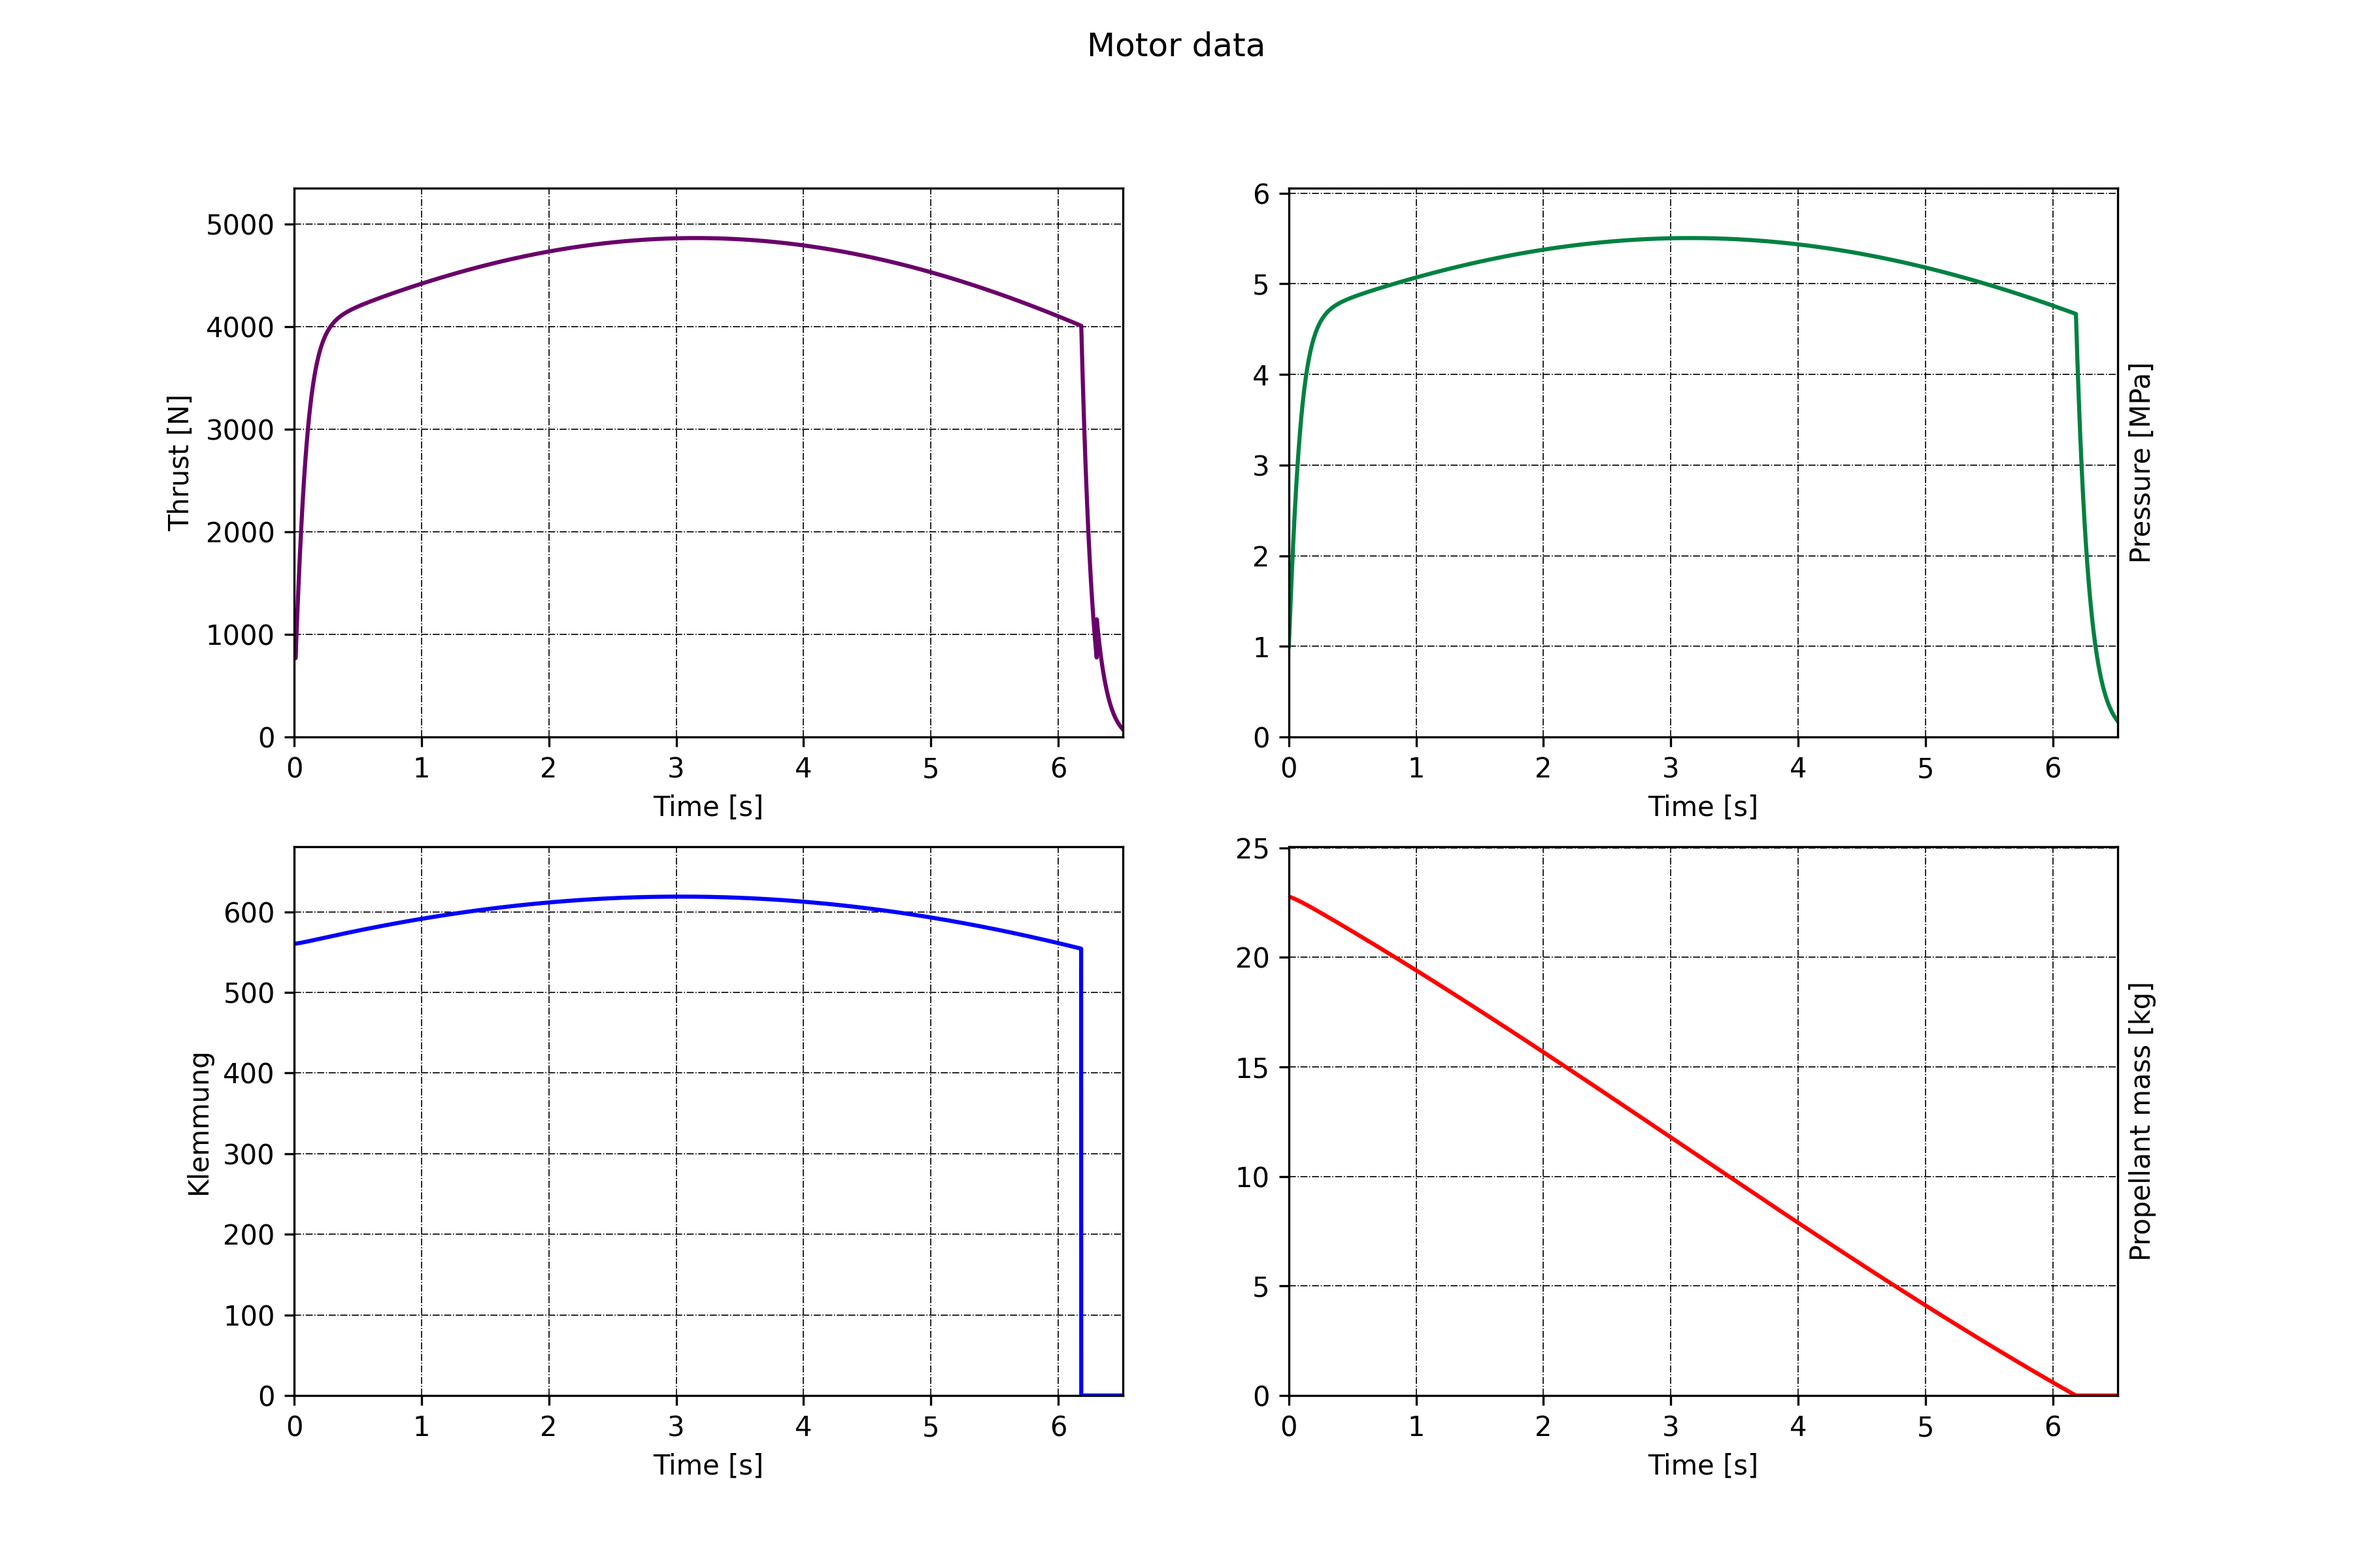
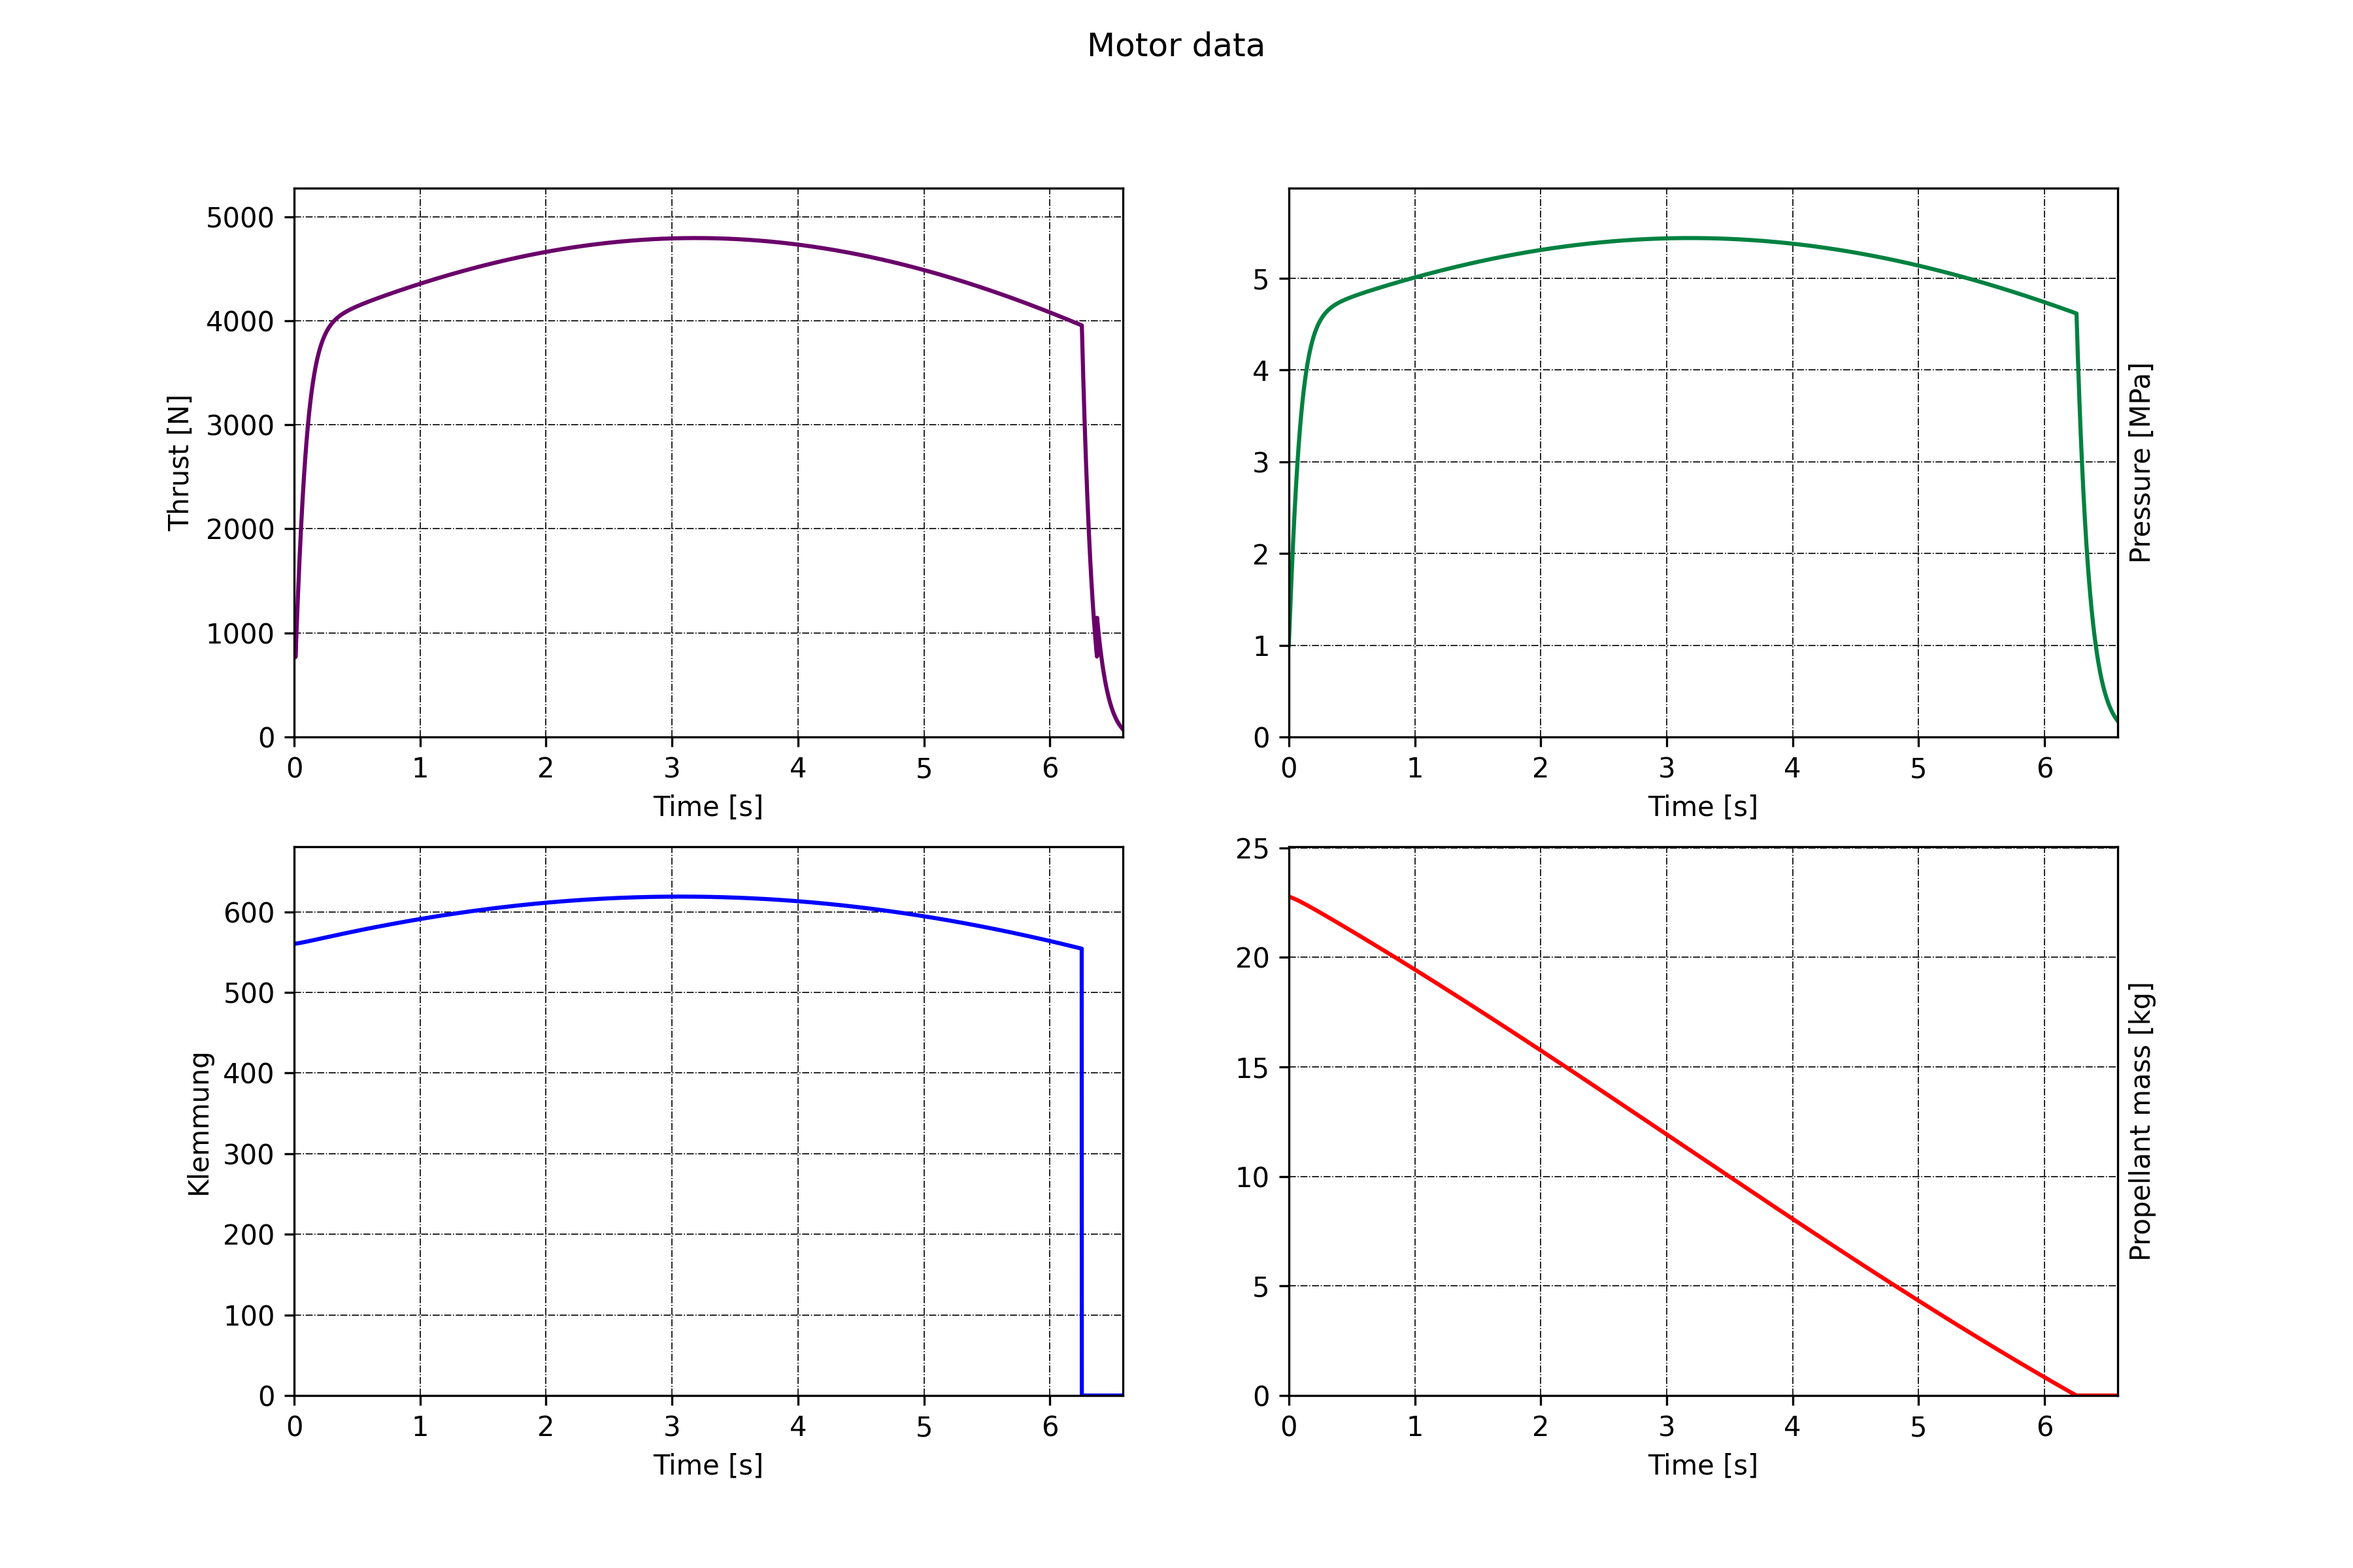
Version Alpha

diff --git a/functions/propellant.py b/functions/propellant.py
@@ -1,3 +1,6 @@
+# Burn rate data was gathered from Nakka and Magnus Gudnason paper 's072205'.
+# Propellant data was gathered from ProPEP3.
+#
 # ce: Combustion, two phase, heat loss, friction inefficiency factor
 # pp: Propellant density [kg/m^3]
 # kCh: Isentropic exponent (chamber)
@@ -77,3 +80,52 @@ def prop_data(prop: str):
                                                                                       knsb.Isp_shifting, \
                                                                                       knsb.qsiCh, knsb.qsiEx
     return ce, pp, kCh, kEx, T0ideal, MCh, MEx, Isp_frozen, Isp_shifting, qsiCh, qsiEx
+
+
+def burn_rate_coefs(prop: str, P0: float):
+    """ Sets the burn rate coefficients 'a' and 'n' according to the instantaneous chamber pressure """
+    if prop.lower() == 'kndx':
+        if P0 * 1e-6 <= 0.779:
+            a, n = 8.875, 0.619
+        elif 0.779 < P0 * 1e-6 <= 2.572:
+            a, n = 7.553, -0.009
+        elif 2.572 < P0 * 1e-6 <= 5.930:
+            a, n = 3.841, 0.688
+        elif 5.930 < P0 * 1e-6 <= 8.502:
+            a, n = 17.2, -0.148
+        elif 8.502 < P0 * 1e-6 <= 11.20:
+            a, n = 4.775, 0.442
+        else:
+            print('\nCHAMBER PRESSURE OUT OF BOUNDS, change Propellant or nozzle throat diameter.\n')
+            a, n = -1, -1
+    elif prop.lower() == 'knsb-nakka':
+        if P0 * 1e-6 <= 0.807:
+            a, n = 10.708, 0.625
+        elif 0.807 < P0 * 1e-6 <= 1.503:
+            a, n = 8.763, -0.314
+        elif 1.503 < P0 * 1e-6 <= 3.792:
+            a, n = 7.852, -0.013
+        elif 3.792 < P0 * 1e-6 <= 7.033:
+            a, n = 3.907, 0.535
+        elif 7.033 < P0 * 1e-6 <= 10.67:
+            a, n = 9.653, 0.064
+        else:
+            print('\nCHAMBER PRESSURE OUT OF BOUNDS, change Propellant or nozzle throat diameter.\n')
+            a, n = -1, -1
+    elif prop.lower() == 'knsb':
+        a, n = 5.132, 0.222
+    elif prop.lower() == 'knsu':
+        a, n = 8.260, 0.319
+    elif prop.lower() == 'kndxio':
+        a, n = 9.25, 0.342
+    elif prop.lower() == 'kndxch':
+        a, n = 11.784, 0.297
+    elif prop.lower() == 'rnx57':
+        a, n = 2.397, 0.446
+    elif prop.lower() == 'kner':
+        a, n = 2.903, 0.395
+    elif prop.lower() == 'knmn':
+        a, n = 5.126, 0.224
+    elif prop.lower() == 'custom':
+        a, n = input('Type value of "a": '), input('Type value of "n": ')
+    return a, n

diff --git a/functions/ib_functions.py b/functions/ib_functions.py
@@ -3,52 +3,7 @@ import matplotlib.pyplot as plt
 import matplotlib.gridspec as gs
 
 
-# Propellant and grain related functions:
-
-
-def burn_rate_coefs(prop: str, P0: float):
-    """ Sets the burn rate coefficients 'a' and 'n' according to the instantaneous chamber pressure """
-    if prop.lower() == 'kndx':
-        if P0 * 1e-6 <= 0.779:
-            a, n = 8.875, 0.619
-        elif 0.779 < P0 * 1e-6 <= 2.572:
-            a, n = 7.553, -0.009
-        elif 2.572 < P0 * 1e-6 <= 5.930:
-            a, n = 3.841, 0.688
-        elif 5.930 < P0 * 1e-6 <= 8.502:
-            a, n = 17.2, -0.148
-        elif 8.502 < P0 * 1e-6 <= 11.20:
-            a, n = 4.775, 0.442
-        else:
-            print('\nCHAMBER PRESSURE OUT OF BOUNDS, change Propellant or nozzle throat diameter.\n')
-            a, n = -1, -1
-    elif prop.lower() == 'knsb':
-        if P0 * 1e-6 <= 0.807:
-            a, n = 10.708, 0.625
-        elif 0.807 < P0 * 1e-6 <= 1.503:
-            a, n = 8.763, -0.314
-        elif 1.503 < P0 * 1e-6 <= 3.792:
-            a, n = 7.852, -0.013
-        elif 3.792 < P0 * 1e-6 <= 7.033:
-            a, n = 3.907, 0.535
-        elif 7.033 < P0 * 1e-6 <= 10.67:
-            a, n = 9.653, 0.064
-        else:
-            print('\nCHAMBER PRESSURE OUT OF BOUNDS, change Propellant or nozzle throat diameter.\n')
-            a, n = -1, -1
-    elif prop.lower() == 'knsu':
-        a, n = 8.260, 0.319
-    elif prop.lower() == 'kndxio':
-        a, n = 9.25, 0.342
-    elif prop.lower() == 'kndxch':
-        a, n = 11.784, 0.297
-    elif prop.lower() == 'rnx57':
-        a, n = 2.397, 0.446
-    elif prop.lower() == 'kner':
-        a, n = 2.900, 0.400
-    elif prop.lower() == 'custom':
-        a, n = input('Type value of "a": '), input('Type value of "n": ')
-    return a, n
+# Internal Ballistics related functions:
 
 
 def getBurnProfile(A_burn: list):
